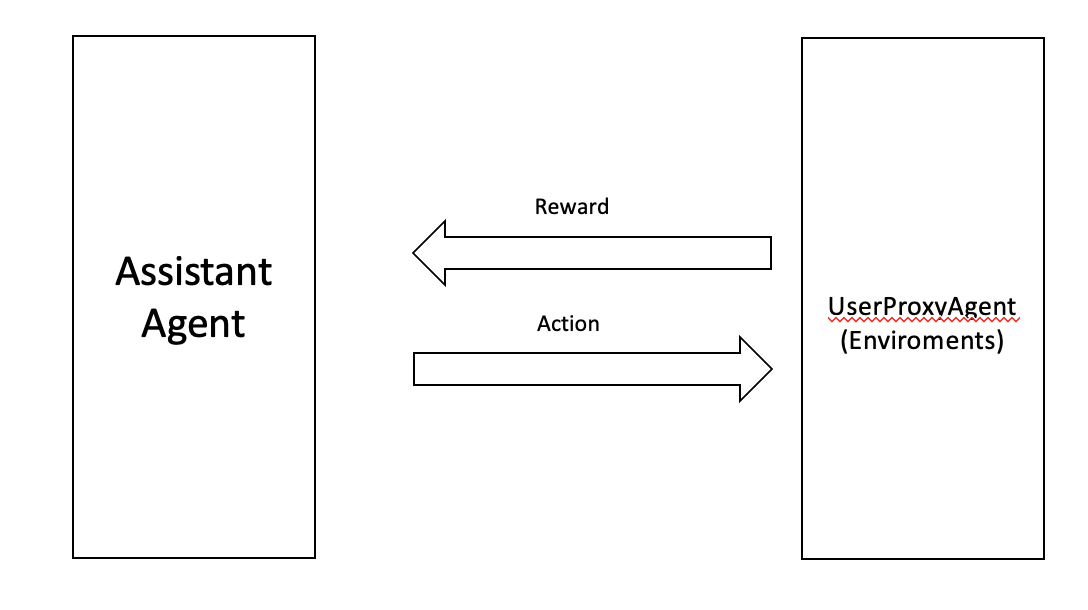
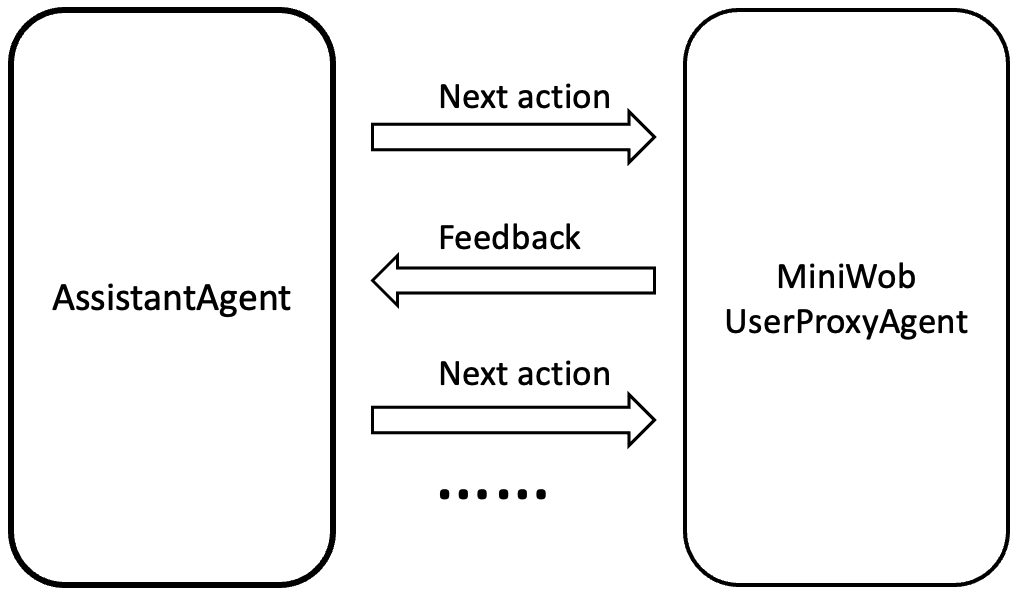
update

diff --git a/main.py b/main.py
@@ -1,5 +1,5 @@
 import os
-os.environ["OPENAI_API_KEY"] = "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"
+os.environ["OPENAI_API_KEY"] = ""
 from flaml.autogen.agent.assistant_agent import AssistantAgent
 from miniwob_agent import MiniWobUserProxyAgent
 from flaml import oai

diff --git a/README.md b/README.md
@@ -1,8 +1,8 @@
 # Browser interactions application
 
-## Miniwob++
+## Miniwob++ benchmark
 
-<img src="artifacts/showcase.gif" alt="image-20230530212605407" style="zoom: 50%;" />
+<img src="artifacts/showcase.gif" alt="image-20230530212605407" style="zoom: 35%;" />
 
 The goal of the benchmark Miniwob++ is to train machine learning models (agents) to do things in a browser that can be specified in natural language. It contains a collection of over 100 web interaction environments along with JavaScript and Python interfaces for programmatically interacting with them. It use The Gymnasium interface allows an agent to initialize and interact with a MiniWoB++ environment as follows:
 ```
@@ -20,50 +20,23 @@ finally:
 ```
 
 ## Miniwob++ integration with Autogen
-Miniwob++ provides a suitable environment to evaluate the ability of an agent to interact with a dynamic environment. Agent interacting with a dynamic environmental system to accomplish tasks seems to be a very common scenario. For example, most reinforcement learning scenarios. These interactions process could be characterized by the following two points:
-1. Some essential information needs to be obtained by interactions between the agent and the environment.
-2. The environment is dynamic and therefore agent needs to adapt its behavior to the environment at each moment in time.  
-
-<img src="artifacts/rl.png" alt="image-20230530212605407" style="zoom: 40%;" />
-
-
-We want to demonstrate:
-
-1. **Off-the-shelf implementation:** Leverage Assistantagent and "UserProxyAgents".
+We evaluate Autogen’s capabilities for making online decisions on the benchmark minibwob++. We used two agents for our implementation. One is the origin AssistantAgent of Autogen without any modification. This agent is responsible for proposing/modifying the plan to complete the given task and make decisions at each step based on the interaction environment. The other is MiniwobUserProxyAgent, which is responsible for interacting with the minibwob++ benchmark, executing the actions sent by the AssistantAgent, and returning the results to the AssistantAgent. 
 
 <img src="artifacts/imp.png" alt="image-20230530212605407" style="zoom: 30%;" />
 
-2. **Programmable and Modularity:**
+## Setup
 
-(1) Users can customize their own intelligent agent in the AssistantAgent, and can also create their own environment in the UserproxyAgent. 
-
-(2) The environment and the agent are decoupled, and neither will affect the other when the other changes. This is convenient for later maintenance and modification.
-
-## How to run
-
-
-### Setup
-
+1. Install packages
 ```sh
 conda install --yes --file requirements.txt 
 cd computergym
 pip install -e .
 ```
 
-
-### Run
-**Step 1:** Set up openai key in *main.py* and *config.json*.  
+2. Set up openai key in *main.py* and *config.json*.  
 
 
-**Step 2:**
-To run the code, simply execute the following command:
-```sh
-python main.py --problem [problem_name]
-```
-Available problems are in *available_tasks.txt.*
-
-
-## Demo
+## Step-by-step demo
 
 #### 1. Run command 
 
@@ -71,6 +44,7 @@ Available problems are in *available_tasks.txt.*
 python main.py --problem click-button-sequence
 ```
 
+*Available problems are in available_tasks.txt.*
 
 #### 2. MiniWobUserProxyAgent sends enviroment and task information to the AssistantAgent
 
@@ -95,10 +69,18 @@ python main.py --problem click-button-sequence
 
 <img src="artifacts/success.png" alt="image-20230530212605407" style="zoom: 50%;" />
 
-## Evaluation
+## Evaluation on multiple tasks
+
+We make a comparison with the state of the art method RCI[1].  
+
 <img src="artifacts/result.png" alt="image-20230530212605407" style="zoom: 45%;" />
 
 
 1. Including all clicking tasks from easy to hard
-2. Remove examples that will exceed tokens limit when agent interactions 
+2. Remove examples that will exceed tokens limit when agent interactions
+
+
+## Reference
+
+[1] Kim, G., Baldi, P., & McAleer, S. (2023). Language models can solve computer tasks. arXiv preprint arXiv:2303.17491.
 
